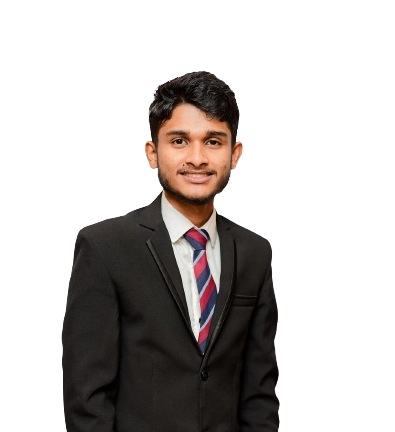
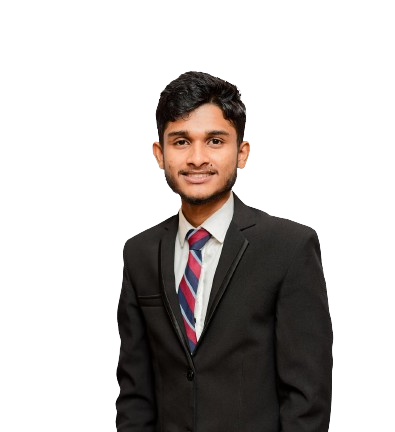
fixed

Changed region(s): [[0.1519, 0.1505, 0.8506, 1.0], [0.5165, 0.9931, 0.5468, 1.0], [0.4557, 0.9931, 0.4861, 1.0]]

diff --git a/index.html b/index.html
@@ -103,7 +103,7 @@
                   </div>
                 </div>
                 <div class="col-lg-6 py-6 pb-0 pt-lg-0 d-flex justify-content-center align-items-center">
-                  <img src="../Portfolio-//img/isuru2.png" alt="Isuru Sanjaya" width="250" height="250" class="img-fluid img-square">
+                  <img src="../Portfolio-//img/isuru2.png" alt="Isuru Sanjaya" width="500" height="500" class="img-fluid img-square">
                 </div>
               </div>
             </div>
